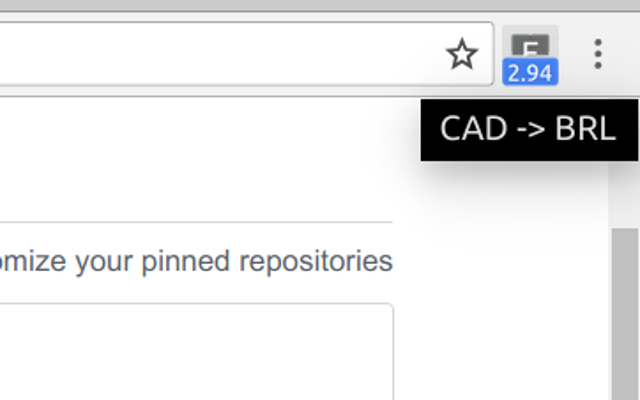
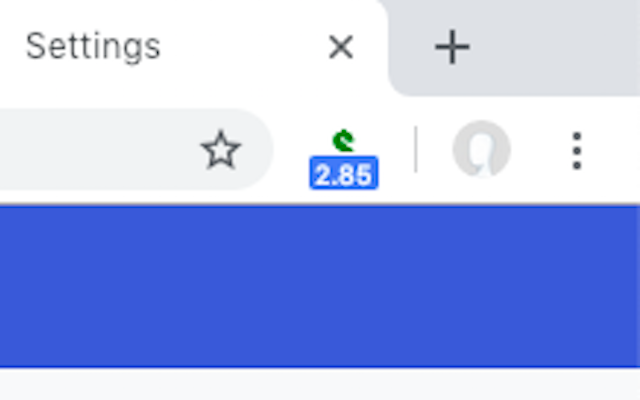
Change build script to minify files
Right now building the project requires uglify to be installed on user PATH.
Also updated promotional and screenshot images to feature the correct icons.

diff --git a/options.html b/options.html
@@ -48,6 +48,6 @@
 <div>Last system calls: </div>
 <textarea id="log" readonly></textarea>
 
-<script src="options.js"></script>
+<script src="options.min.js"></script>
 </body>
 </html>
